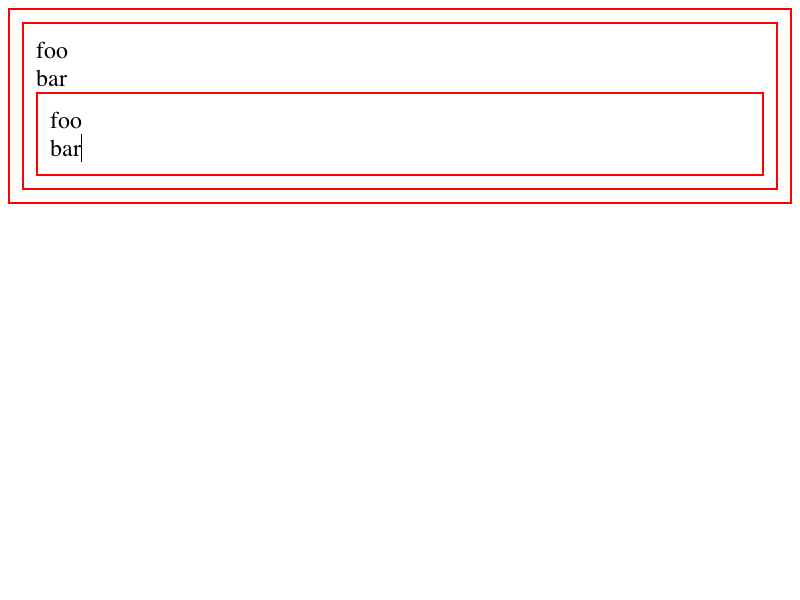
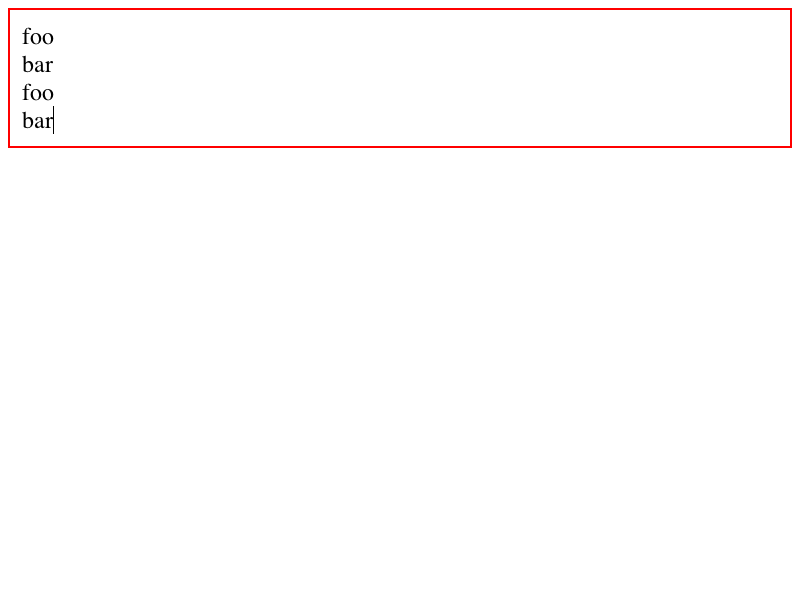
WebCore:
2009-04-21  Justin Garcia  <justin.garcia@apple.com>

        Reviewed by Darin Adler.

        https://bugs.webkit.org/show_bug.cgi?id=19644
        Text copied with Select All pastes with a indent but shouldn't
        <rdar://problem/6102483> 
        Pasting the content of an HTML message in Mail causes addition nested <div> elements to be added
        
        To improve selectall/copy/paste fidelity of certain pages, we began wrapping copied content with
        a div that held properties and attributes from the fully selected body.  To fix the above issues, 
        only do this if if the body has certain properties or attributes.  We'll begin adding to this list as 
        necessary.  For now it's just background colors and images.  Tested copy/paste of nytimes, wired,
        arstechnica, and several others.
        
        Massive nesting can still happen, it will just be much less common.

        * editing/markup.cpp:
        (WebCore::createMarkup): 

LayoutTests:

2009-04-21  Justin Garcia  <justin.garcia@apple.com>

        Reviewed by Darin Adler.

        https://bugs.webkit.org/show_bug.cgi?id=19644
        Text copied with Select All pastes with a indent but shouldn't
        <rdar://problem/6102483> 
        Pasting the content of an HTML message in Mail causes addition nested <div> elements to be added

        * editing/pasteboard/19644-1-expected.txt: Added.
        * editing/pasteboard/19644-1.html: Added.
[…]

Changed region(s): [[0.0, 0.03, 1.0, 0.36]]

diff --git a/LayoutTests/editing/pasteboard/19644-2.html b/LayoutTests/editing/pasteboard/19644-2.html
@@ -1,0 +1,17 @@
+<head>
+<script>
+function runTest() {
+    document.body.focus();
+    document.execCommand("SelectAll");
+    if (!layoutTestController)
+        return;
+    layoutTestController.dumpAsText();
+    document.execCommand("Cut");
+    document.body.style.backgroundColor = "white";
+    document.execCommand("Paste");
+    document.body.innerText = document.body.innerHTML;
+    
+}
+</script>
+</head>
+<body onLoad="runTest();" contentEditable="true" style="background-color: #bbb;">This tests to make sure that we wrap copied markup in a div to hold a fully selected body's attributes and style when the that body has a background-color.  If you copy and paste this text into Mail, it should have a grey background.</body>

diff --git a/LayoutTests/editing/pasteboard/19644-1.html b/LayoutTests/editing/pasteboard/19644-1.html
@@ -1,0 +1,16 @@
+<head>
+<script>
+function runTest() {
+    document.body.focus();
+    document.execCommand("SelectAll");
+    if (!layoutTestController)
+        return;
+    layoutTestController.dumpAsText();
+    document.execCommand("Cut");
+    document.execCommand("Paste");
+    document.body.innerText = document.body.innerHTML;
+    
+}
+</script>
+</head>
+<body onLoad="runTest();" contentEditable="true" style="padding: 5px; margin: 5px;">This tests for a bug where we would wrap copied markup in a div to hold a fully selected body's attributes and style even if there was nothing special about the body that warranted doing so.  After you cut/paste, the text should only have 5 pixels of padding.</body>

diff --git a/WebCore/editing/markup.cpp b/WebCore/editing/markup.cpp
@@ -742,6 +742,15 @@ static bool isSpecialAncestorBlock(Node* node)
            node->hasTagName(h5Tag);
 }
 
+static bool shouldIncludeWrapperForFullySelectedRoot(Node* fullySelectedRoot, CSSMutableStyleDeclaration* style)
+{
+    if (fullySelectedRoot->isElementNode() && static_cast<Element*>(fullySelectedRoot)->hasAttribute(backgroundAttr))
+        return true;
+        
+    return style->getPropertyCSSValue(CSSPropertyBackgroundImage) ||
+           style->getPropertyCSSValue(CSSPropertyBackgroundColor);
+}
+
 // FIXME: Shouldn't we omit style info when annotate == DoNotAnnotateForInterchange? 
 // FIXME: At least, annotation and style info should probably not be included in range.markupString()
 String createMarkup(const Range* range, Vector<Node*>* nodes, EAnnotateForInterchange annotate, bool convertBlocksToInlines)
@@ -927,29 +936,29 @@ String createMarkup(const Range* range, Vector<Node*>* nodes, EAnnotateForInterc
         specialCommonAncestor = enclosingAnchor;
     
     Node* body = enclosingNodeWithTag(Position(commonAncestor, 0), bodyTag);
-    // FIXME: Only include markup for a fully selected root (and ancestors of lastClosed up to that root) if
-    // there are styles/attributes on those nodes that need to be included to preserve the appearance of the copied markup.
     // FIXME: Do this for all fully selected blocks, not just the body.
     Node* fullySelectedRoot = body && *VisibleSelection::selectionFromContentsOfNode(body).toNormalizedRange() == *updatedRange ? body : 0;
-    if (annotate && fullySelectedRoot)
-        specialCommonAncestor = fullySelectedRoot;
+    RefPtr<CSSMutableStyleDeclaration> fullySelectedRootStyle = fullySelectedRoot ? styleFromMatchedRulesAndInlineDecl(fullySelectedRoot) : 0;
+    if (annotate && fullySelectedRoot) {
+        if (shouldIncludeWrapperForFullySelectedRoot(fullySelectedRoot, fullySelectedRootStyle.get()))
+            specialCommonAncestor = fullySelectedRoot;
+    }
         
     if (specialCommonAncestor && lastClosed) {
         // Also include all of the ancestors of lastClosed up to this special ancestor.
         for (Node* ancestor = lastClosed->parentNode(); ancestor; ancestor = ancestor->parentNode()) {
             if (ancestor == fullySelectedRoot && !convertBlocksToInlines) {
-                RefPtr<CSSMutableStyleDeclaration> style = styleFromMatchedRulesAndInlineDecl(fullySelectedRoot);
                 
                 // Bring the background attribute over, but not as an attribute because a background attribute on a div
                 // appears to have no effect.
-                if (!style->getPropertyCSSValue(CSSPropertyBackgroundImage) && static_cast<Element*>(fullySelectedRoot)->hasAttribute(backgroundAttr))
-                    style->setProperty(CSSPropertyBackgroundImage, "url('" + static_cast<Element*>(fullySelectedRoot)->getAttribute(backgroundAttr) + "')");
+                if (!fullySelectedRootStyle->getPropertyCSSValue(CSSPropertyBackgroundImage) && static_cast<Element*>(fullySelectedRoot)->hasAttribute(backgroundAttr))
+                    fullySelectedRootStyle->setProperty(CSSPropertyBackgroundImage, "url('" + static_cast<Element*>(fullySelectedRoot)->getAttribute(backgroundAttr) + "')");
                 
-                if (style->length()) {
+                if (fullySelectedRootStyle->length()) {
                     Vector<UChar> openTag;
                     DEFINE_STATIC_LOCAL(const String, divStyle, ("<div style=\""));
                     append(openTag, divStyle);
-                    appendAttributeValue(openTag, style->cssText(), documentIsHTML);
+                    appendAttributeValue(openTag, fullySelectedRootStyle->cssText(), documentIsHTML);
                     openTag.append('\"');
                     openTag.append('>');
                     preMarkups.append(String::adopt(openTag));
